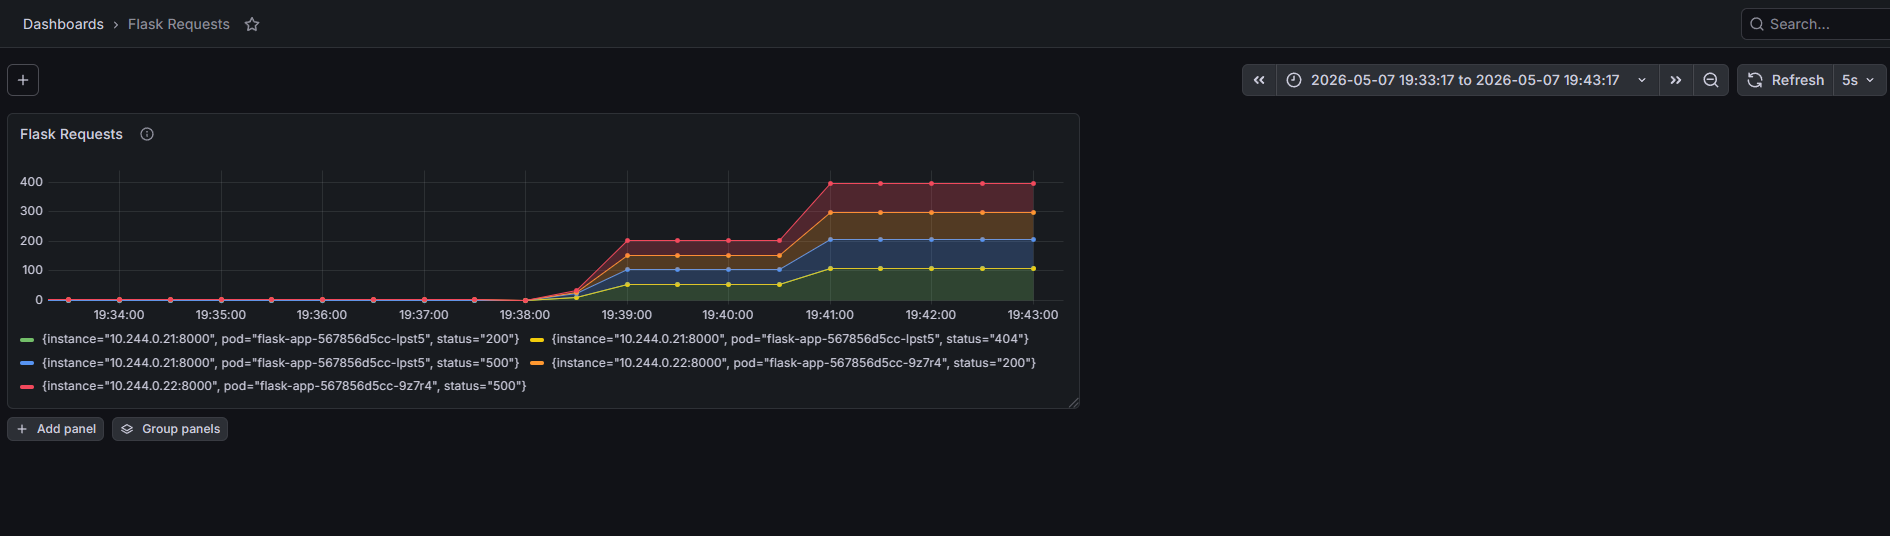
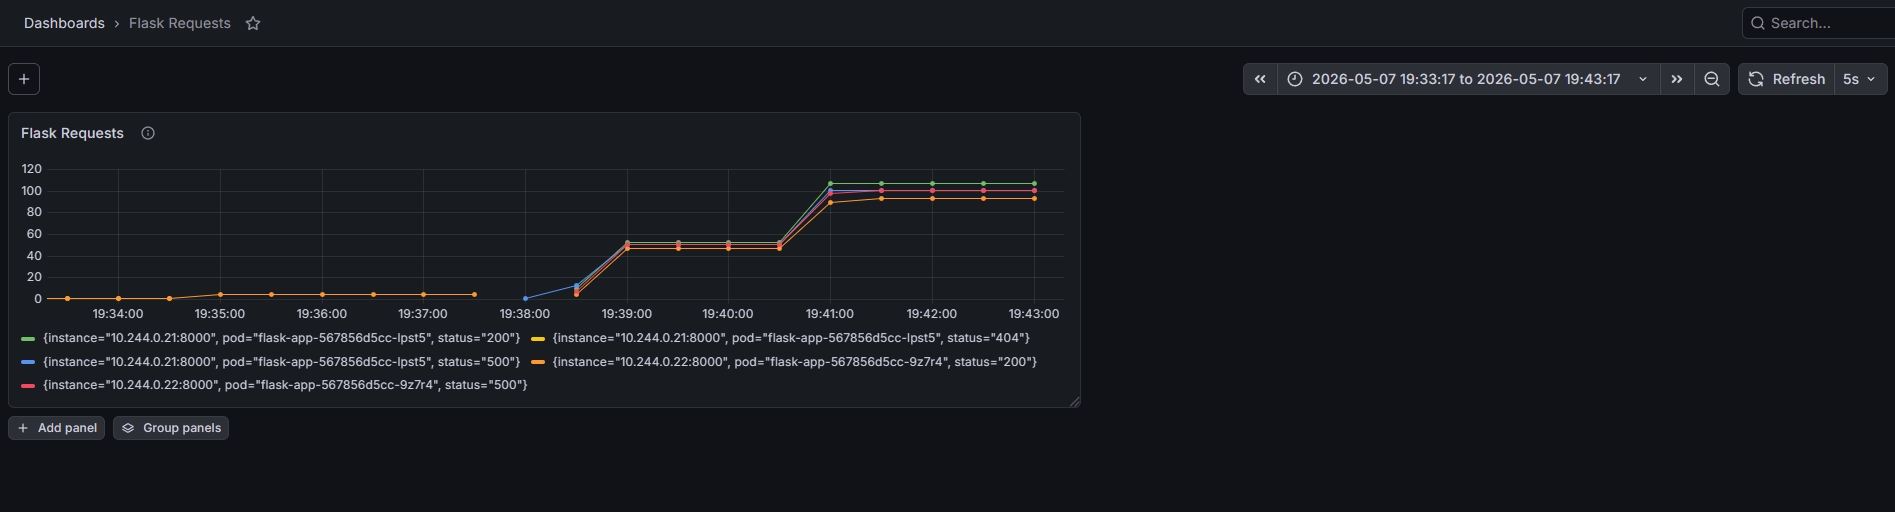
docs

diff --git a/lab5/README.md b/lab5/README.md
@@ -1,29 +1,131 @@
-# Добавляем репозиторий с чартами Prometheus
+# 5 Лабораторная (Базовая) черновик
+
+Выполнил:
+
+студент группы N3346,
+
+Суханкулиев Мухаммет
+
+---
+
+## Контекст
+
+В качестве подопытного использовано микро-веб-приложение на Flask из прошлых лабораторных работ, доработанное для отдачи метрик в формате Prometheus.
+
+---
+
+### 1. Подготовка приложения
+
+Чтобы Prometheus мог что-то собирать, приложение должно уметь отдавать метрики. Я добавил в код Flask библиотеку `prometheus-flask-exporter`.
+
+Она автоматически оборачивает все маршруты и создает эндпоинт `/metrics`, где публикуются данные о количестве запросов, HTTP-кодах (200, 404, 500) и задержках (latency).
+
+Ещё я специально добавил маршрут `/error` с ошибкой, чтобы можно было визуализировать на графиках всплески 500-х ошибок.
+
+### 2. Установка стека мониторинга
+
+Использовал Helm. Установил официальный стек `kube-prometheus-stack`, который включает в себя сразу всё необходимое "из коробки" (в том числе метрики самого кластера).
+
+```bash
 helm repo add prometheus-community https://prometheus-community.github.io/helm-charts
 helm repo update
+```
 
-# Устанавливаем ВЕСЬ стек мониторинга
+![prometheus-community](./screenshots/1.minikube_helm.png)
+
+```bash
 helm install monitoring prometheus-community/kube-prometheus-stack
+```
+
+![kube-prometheus-stack](./screenshots/2.helm_install.png)
+
+### 3. ServiceMonitor
+
+Чтобы Prometheus узнал о существовании моего приложения, я не стал править конфиги Прометеуса вручную (это антипаттерн). Вместо этого реализовал манифест `ServiceMonitor`. 
+
+Это Custom Resource Definition (CRD), который динамически сообщает оператору Prometheus: *"Иди к подам с lable `app: flask-monitor` на порт 8000 и собирай метрики, чел"*.
 
 # Собираем образ внутри миникуба
+
+```bash
 minikube image build -t my-flask-app:3.0 .
+```
+
+![CLI Setup](./screenshots/3.1.minikube_image_build.png)
 
 # Деплоим приложение и ServiceMonitor
-kubectl apply -f k8s/app.yaml
 
+```bash
+kubectl apply -f k8s/app.yaml
+```
+
+![CLI Setup](./screenshots/3.2.kubectl_apply.png)
+
+```bash
 kubectl get pods
 
 minikube service flask-svc
+```
 
+![CLI Setup](./screenshots/4.pods_service.png)
+
+```bash
 kubectl port-forward svc/monitoring-grafana 8080:80
+```
+
+![CLI Setup](./screenshots/5.port-forward.png)
+
+---
+
+## Графаня
 
 http://localhost:8080
 
 Логин: admin
 Пароль:
+
+```bash
 kubectl get secrets -A
+```
+
+```bash
 kubectl get secret monitoring-grafana -o jsonpath="{.data.admin-password}" # | base64 -d (linux)
+```
 
-flask_http_request_total
+![CLI](./screenshots/6.1.nahojdenie_passworda.png)
 
+![CLI](./screenshots/6.2.cyberchef.org.png)
+
+![CLI](./screenshots/7.grafana_login.png)
+
+(можно ли было задать пароль в начале? ...)
+
+---
+
+## Результаты (Графики Графани)
+
+После деплоя я пробросил порт к Grafana (`kubectl port-forward svc/monitoring-grafana 8080:80`) и сгенерировал искусственную нагрузку на приложение:
+
+```bash
 for /L %i in (1,1,100) do curl -s "http://127.0.0.1:48591/" >nul & curl -s "http://127.0.0.1:48591/error" >nul
+```
+
+### График 1: Состояние системы (Инфраструктурный мониторинг)
+
+`kube-prometheus-stack` автоматически создает дашборды для мониторинга железа и подов Kubernetes. Ниже представлен график ...
+
+*Скриншот системных ...:*
+![...](./screenshots/8.prometheus_overview.png)
+
+### График 2: Состояние приложения (Продуктовый мониторинг)
+
+Я создал кастомный Dashboard, чтобы отслеживать метрики конкретно моего приложения. 
+
+PromQL запрос: `flask_http_request_total`. На графике наглядно видно распределение входящих запросов. Красная и синяя линии - это те самые 500-е ошибки, вызванные моими обращениями к маршруту `/error`, а зеленая и оранжевая - успешные запросы.......
+
+![...](./screenshots/9.new_dashboard.png)
+
+*Скриншот продуктовых метрик (Flask App):*
+![App Metrics](./screenshots/10.flask_requests.png)
+
+### фсё
